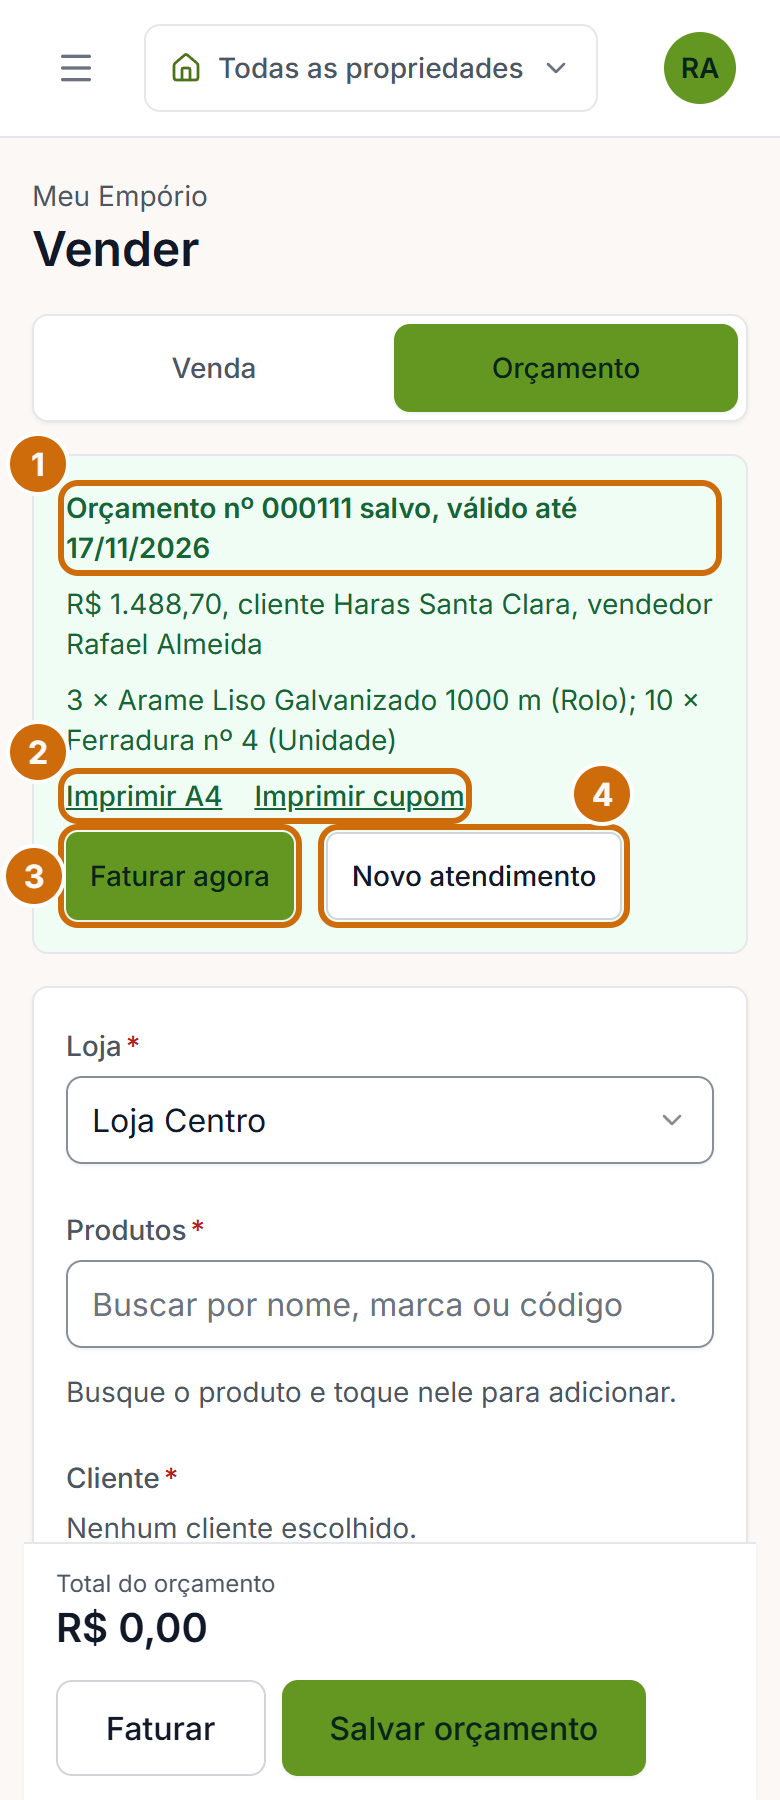
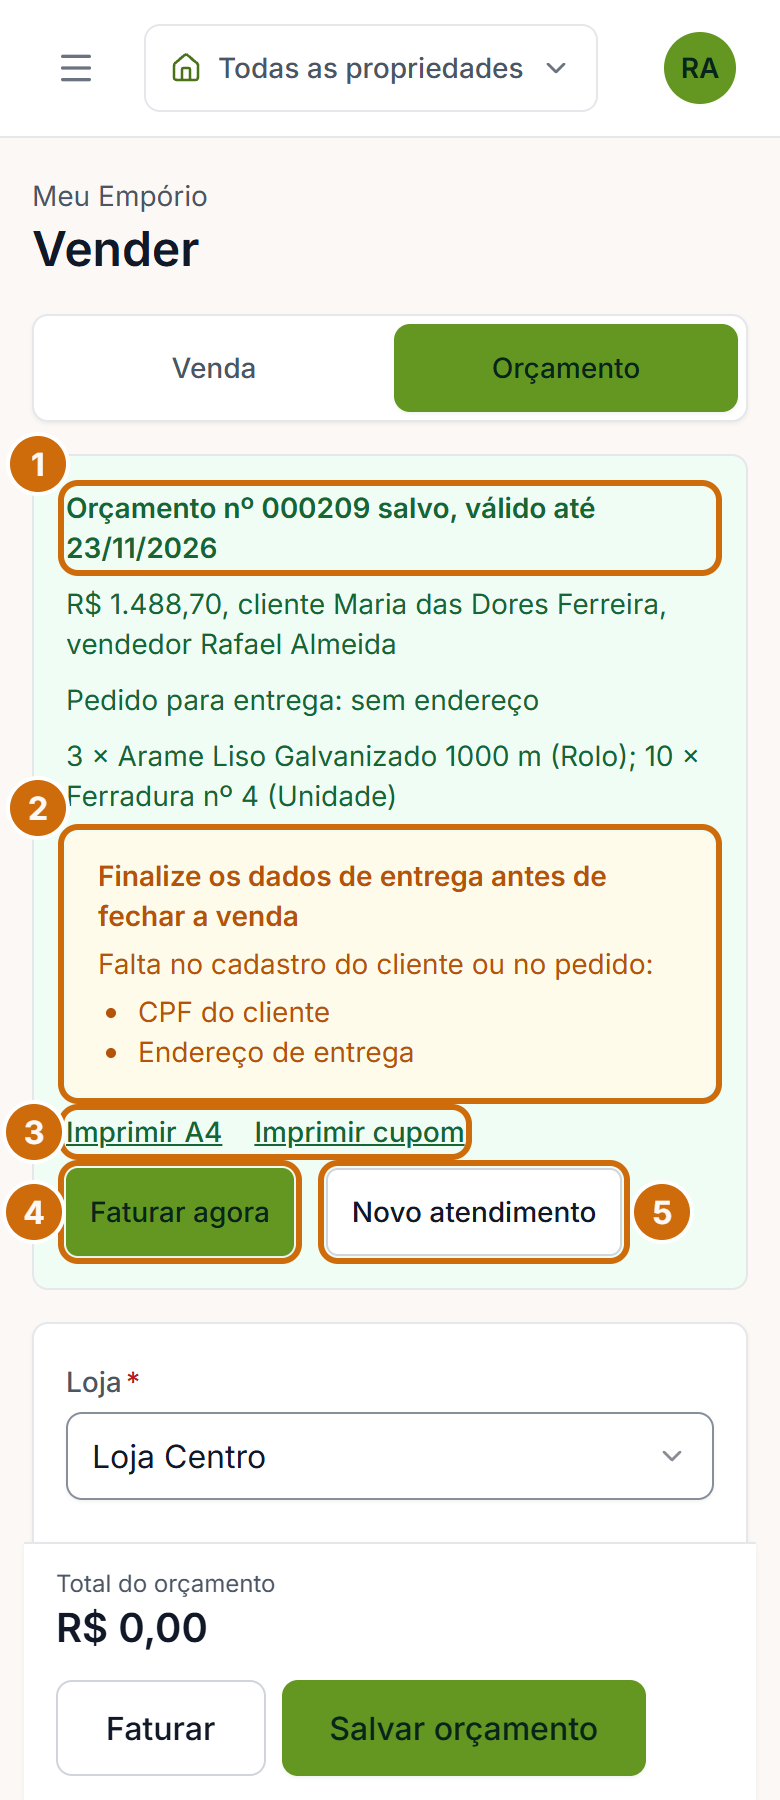
Manual: figuras do balcão regeradas (preço do cadastro, descontos, total do orçamento, alerta de pendências) e texto do orçamento só com nome e telefone
Claude-Session: https://claude.ai/code/session_01PpptRS6hZ4xQMJ721LGqsn

Changed region(s): [[0.0, 0.28, 0.9231, 0.8711], [0.0923, 0.28, 0.2769, 0.3111], [0.8923, 0.7156, 0.9231, 0.7467]]

diff --git a/src/app/(dashboard)/manual/_conteudo/partes-tarefa-3.tsx b/src/app/(dashboard)/manual/_conteudo/partes-tarefa-3.tsx
@@ -172,12 +172,12 @@ export function ParteDeOrcamento() {
         passos={[
           <>Abra <strong>Vender</strong> e toque em <strong>Orçamento</strong>, no alto da tela.</>,
           <>Busque os produtos e ajuste a quantidade, como numa venda. O preço vem do cadastro da loja e não se digita; produto sem preço na loja não entra. O desconto é o mesmo da venda: <strong>Desconto (%)</strong> em cada linha e <strong>Desconto no total (R$)</strong> para o orçamento inteiro, até o limite da loja. Acima dele, <strong>Pedir autorização do gestor</strong>: o gestor digita o PIN, e a autorização vale 15 minutos, naquela loja, até aquele percentual. Um item cadastrado com preço R$ 0,00 sai como <strong>Brinde</strong>.</>,
-          <>No campo <strong>Cliente</strong>, clique em <strong>Escolher cliente</strong> e busque pelo nome, pelo CPF ou CNPJ, ou por um pedaço do telefone. Quem não quer se identificar entra como <strong>Consumidor final</strong>, que vale para o orçamento. O cliente precisa estar com o cadastro completo: na pessoa física, nome e telefone; na jurídica, também o CNPJ e o endereço principal. Para um cliente novo, clique em <strong>Cadastrar novo cliente</strong>.</>,
+          <>No campo <strong>Cliente</strong>, clique em <strong>Escolher cliente</strong> e busque pelo nome, pelo CPF ou CNPJ, ou por um pedaço do telefone. Quem não quer se identificar entra como <strong>Consumidor final</strong>, que vale para o orçamento. Para o orçamento bastam o nome e o telefone do cliente, de pessoa física ou jurídica: o CPF, o CNPJ e o endereço só são cobrados ao fechar a venda. Para um cliente novo, clique em <strong>Cadastrar novo cliente</strong>.</>,
           <>Se o orçamento é de um franqueado, escolha o <strong>Franqueado</strong> e digite o <strong>Crédito do franqueado (R$)</strong>. O papel do orçamento já sai com o crédito repartido nos itens, e a venda, ao faturar, nasce com os dois.</>,
           <>Se vai ter entrega cobrada, digite o <strong>Frete cobrado do cliente</strong>. O papel do orçamento mostra o frete numa linha própria e o total com ele, e a venda, ao faturar, já nasce com o frete. O frete não entra no faturamento da loja.</>,
           <>Se quiser, escreva uma <strong>Observação</strong>.</>,
           <>Confira o <strong>Vendedor</strong>. Ele já vem com o seu nome. Se você é Caixa, escolha quem atendeu.</>,
-          <>Clique em <strong>Salvar orçamento</strong>. O quadro verde mostra o número e a data até quando ele vale (<strong>válido até</strong>); vale até o fim desse dia.</>,
+          <>Clique em <strong>Salvar orçamento</strong>. O quadro verde mostra o número e a data até quando ele vale (<strong>válido até</strong>); vale até o fim desse dia. Se o cadastro do cliente ainda não tem o que a venda pede, um aviso amarelo (<strong>Antes de fechar a venda, complete o cadastro</strong>, ou <strong>Finalize os dados de entrega</strong>) lista o que falta, como o CPF e o endereço de entrega: o orçamento já está salvo, e o cadastro se completa na hora de vender.</>,
           <>Clique em <strong>Imprimir A4</strong> ou <strong>Imprimir cupom</strong> e entregue o papel ao cliente.</>,
         ]}
         problemas={[

diff --git a/src/app/(dashboard)/manual/_conteudo/figuras.ts b/src/app/(dashboard)/manual/_conteudo/figuras.ts
@@ -616,13 +616,14 @@ export const FIGURAS: Figura[] = [
     pagina: "/emporio/vender",
     papel: "vendedor",
     legenda: "Montando um orçamento no balcão",
-    alt: "Tela Vender no modo Orçamento, com os itens, o cliente, a Observação e os botões Faturar e Salvar orçamento",
+    alt: "Tela Vender no modo Orçamento, com os itens, os descontos, o cliente, a Observação, o Total do orçamento e os botões Faturar e Salvar orçamento",
     marcas: [
       { numero: 1, alvo: "o botão Orçamento, no alto da tela", texto: "Troca a venda pelo orçamento. Não pede pagamento nem caixa." },
-      { numero: 2, alvo: "o campo Cliente", texto: "O cliente com o cadastro completo, ou o Consumidor final." },
+      { numero: 2, alvo: "o campo Cliente", texto: "Basta o nome e o telefone do cliente. Ou o Consumidor final." },
       { numero: 3, alvo: "o campo Observação", texto: "Opcional. Fica guardada no orçamento, para quem o abrir depois." },
       { numero: 4, alvo: "os campos Desconto (%) de cada item e Desconto no total (R$)", texto: "O preço vem do cadastro. O desconto segue o limite da loja, e acima dele o gestor autoriza com o PIN." },
-      { numero: 5, alvo: "os botões Faturar e Salvar orçamento", texto: "Faturar leva os itens para a venda sem salvar. Salvar orçamento guarda com número e validade." },
+      { numero: 5, alvo: "o Total do orçamento, no rodapé", texto: "O que o cliente vai pagar, com o desconto e o frete." },
+      { numero: 6, alvo: "os botões Faturar e Salvar orçamento", texto: "Faturar leva os itens para a venda sem salvar. Salvar orçamento guarda com número e validade." },
     ],
   },
   {
@@ -630,12 +631,13 @@ export const FIGURAS: Figura[] = [
     pagina: "/emporio/vender",
     papel: "vendedor",
     legenda: "O orçamento salvo",
-    alt: "Quadro verde Orçamento nº salvo, com a validade, o cliente, os itens e os botões Imprimir A4, Imprimir cupom, Faturar agora e Novo atendimento",
+    alt: "Quadro verde Orçamento nº salvo, com a validade, o cliente, os itens, o aviso amarelo do que falta no cadastro e os botões Imprimir A4, Imprimir cupom, Faturar agora e Novo atendimento",
     marcas: [
       { numero: 1, alvo: "a linha Orçamento nº ... salvo, válido até ...", texto: "O número que o cliente leva e a data até quando vale o preço." },
-      { numero: 2, alvo: "Imprimir A4 e Imprimir cupom", texto: "O papel para entregar ao cliente." },
-      { numero: 3, alvo: "o botão Faturar agora", texto: "O cliente já quer levar: o orçamento vai para a venda." },
-      { numero: 4, alvo: "o botão Novo atendimento", texto: "Limpa o balcão para o próximo cliente." },
+      { numero: 2, alvo: "o alerta amarelo, com o que falta para virar venda", texto: "O orçamento já está salvo. Aqui estão o CPF e o endereço de entrega, que só a venda cobra." },
+      { numero: 3, alvo: "Imprimir A4 e Imprimir cupom", texto: "O papel para entregar ao cliente." },
+      { numero: 4, alvo: "o botão Faturar agora", texto: "O cliente já quer levar: o orçamento vai para a venda." },
+      { numero: 5, alvo: "o botão Novo atendimento", texto: "Limpa o balcão para o próximo cliente." },
     ],
   },
   {

diff --git a/src/app/(dashboard)/manual/_conteudo/partes-funcao.tsx b/src/app/(dashboard)/manual/_conteudo/partes-funcao.tsx
@@ -248,7 +248,7 @@ export function ParteVendedor() {
         itens={[
           <>Em <strong>Vender</strong>, toque em <strong>Orçamento</strong>, no alto da tela.</>,
           "Monte os itens como numa venda: produto e quantidade. O preço vem do cadastro e você não o digita. O desconto vai em Desconto (%) na linha ou em Desconto no total (R$), no mesmo limite da loja; acima dele, use Pedir autorização do gestor.",
-          "Clique em Escolher cliente e busque pelo nome, pelo CPF ou CNPJ ou pelo pedaço do telefone, ou escolha o Consumidor final para quem não quer se identificar. O cliente precisa estar com o cadastro completo (na pessoa física, nome e telefone).",
+          "Clique em Escolher cliente e busque pelo nome, pelo CPF ou CNPJ ou pelo pedaço do telefone, ou escolha o Consumidor final para quem não quer se identificar. Para o orçamento bastam o nome e o telefone do cliente; o que falta para a venda aparece num aviso depois de salvar.",
           <>Clique em <strong>Salvar orçamento</strong>. Ele ganha um número e a data <strong>Válido até</strong>.</>,
           <>Imprima com <strong>Imprimir A4</strong> ou <strong>Imprimir cupom</strong> e entregue ao cliente.</>,
         ]}

diff --git a/scripts/navegador/manual-emporio.py b/scripts/navegador/manual-emporio.py
@@ -772,7 +772,7 @@ figura("balcao-pagamento", "vendedor_centro", "/emporio/vender", [
     (2, "M.todos('button').filter(b => /^\\+ /.test(b.innerText.trim()))", "os botoes de forma de pagamento"),
     (3, "[M.todos('[aria-label^=\"Valor em\"]'), M.C('Falta') || M.C('Troco') || M.C('Pagamento fechado')]", "o valor em cada forma e a linha Falta, Troco ou Pagamento fechado"),
     (4, "M.B('Fechar a venda')", "o botao Fechar a venda"),
-], estado=estado_pagamento, hd=1250, hc=1700)
+], estado=estado_pagamento, hd=2000, hc=2350)
 
 
 def estado_balcao_caixa():
@@ -785,7 +785,7 @@ figura("balcao-cliente-vendedor", "caixa", "/emporio/vender", [
     (2, "M.B('Cadastrar novo cliente')", "o botao Cadastrar novo cliente"),
     (3, "M.L('Vendedor')", "o campo Vendedor"),
     (4, "M.B('Fechar a venda')", "o botao Fechar a venda"),
-], estado=estado_balcao_caixa, hd=1100, hc=1500)
+], estado=estado_balcao_caixa, hd=1550, hc=1800)
 
 
 def estado_escolher_cliente():
@@ -805,12 +805,12 @@ figura("balcao-escolher-cliente", "vendedor_centro", "/emporio/vender", [
 ], estado=estado_escolher_cliente, hd=800, hc=1000)
 
 
-def estado_orcamento():
+def estado_orcamento(cliente="Haras Santa Clara"):
     clicar("Orçamento")
     time.sleep(1)
     adicionar_ao_balcao("Arame", "Arame Liso Galvanizado 1000 m", "3")
     adicionar_ao_balcao("Ferradura", "Ferradura nº 4", "10")
-    escolher_cliente("Haras Santa Clara")
+    escolher_cliente(cliente)
     preencher("Observação", "Entrega na fazenda, na sexta de manhã.")
     time.sleep(0.6)
 
@@ -819,16 +819,24 @@ figura("orcamento-balcao", "vendedor_centro", "/emporio/vender", [
     (1, "M.B('Orçamento')", "o botao Orcamento, no alto da tela"),
     (2, "M.L('Cliente')", "o campo Cliente"),
     (3, "M.L('Observação')", "o campo Observacao"),
-    (4, "[M.B('Faturar'), M.B('Salvar orçamento')]", "os botoes Faturar e Salvar orcamento"),
-], estado=estado_orcamento, hd=1200, hc=1700)
+    (4, "[M.todos('[aria-label^=\"Desconto do item\"]'), M.L('Desconto no total (R$, opcional)')]", "os campos Desconto (%) de cada item e Desconto no total (R$)"),
+    (5, "M.todos('p').find(p => M.norm(p.innerText) === 'total do orçamento').parentElement", "o Total do orcamento, no rodape"),
+    (6, "[M.B('Faturar'), M.B('Salvar orçamento')]", "os botoes Faturar e Salvar orcamento"),
+], estado=estado_orcamento, hd=1750, hc=1900)
 
 
 def estado_orcamento_salvo():
-    estado_orcamento()
+    # Maria das Dores Ferreira tem so nome e telefone (Q336): o orcamento salva
+    # e o alerta de pendencias aparece.
+    # Com Pedido para entrega marcado e sem escolher o endereco (opcional no orcamento),
+    # a venda ainda pede o CPF e o endereco: o alerta lista as duas pendencias.
+    estado_orcamento("Maria das Dores Ferreira")
+    confere("orcamento-salvo: marcou Pedido para entrega", marcar("Pedido para entrega") is True)
+    time.sleep(1)
     # Chave fixa: na primeira vez salva, nas seguintes o servidor devolve o
     # MESMO orcamento (repeticao pela chave de operacao), e o roteiro nao enche
     # a lista de orcamentos a cada rodada.
-    js("crypto.randomUUID = () => 'manual-emporio-orcamento-salvo'")
+    js("crypto.randomUUID = () => 'manual-emporio-orcamento-salvo-entrega'")
     clicar("Salvar orçamento")
     esperar(lambda: tem_na_tela("salvo, válido até"), 60)
     time.sleep(1)
@@ -836,9 +844,10 @@ def estado_orcamento_salvo():
 
 figura("orcamento-salvo", "vendedor_centro", "/emporio/vender", [
     (1, "M.T('Orçamento nº')", "a linha Orcamento no ... salvo, valido ate ..."),
-    (2, "[M.B('Imprimir A4'), M.B('Imprimir cupom')]", "Imprimir A4 e Imprimir cupom"),
-    (3, "M.B('Faturar agora')", "o botao Faturar agora"),
-    (4, "M.B('Novo atendimento')", "o botao Novo atendimento"),
+    (2, "M.T('Finalize os dados de entrega antes de fechar a venda').parentElement", "o alerta Finalize os dados de entrega antes de fechar a venda, com o que falta"),
+    (3, "[M.B('Imprimir A4'), M.B('Imprimir cupom')]", "Imprimir A4 e Imprimir cupom"),
+    (4, "M.B('Faturar agora')", "o botao Faturar agora"),
+    (5, "M.B('Novo atendimento')", "o botao Novo atendimento"),
 ], estado=estado_orcamento_salvo, hd=700, hc=900)
 
 figura("orcamentos-lista", "gestor", "/emporio/orcamentos", [
@@ -862,7 +871,7 @@ figura("orcamento-faturar", "caixa", "/emporio/vender", [
     (2, "Array.from(" + FAIXA + ".querySelectorAll('p.rounded-md, ul.rounded-md'))", "os avisos da faixa"),
     (3, "M.L('Vendedor')", "o campo Vendedor, com O vendedor do orcamento."),
     (4, "M.B('Tirar orçamento')", "o botao Tirar orcamento"),
-], estado=estado_orcamento_faturar, hd=1400, hc=2000)
+], estado=estado_orcamento_faturar, hd=1700, hc=2100)
 
 def estado_balcao_entrega():
     adicionar_ao_balcao("Arame", "Arame Liso Galvanizado 1000 m", "2")
